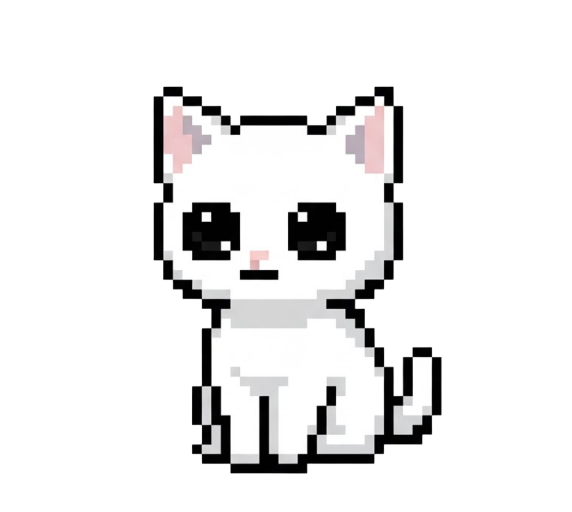
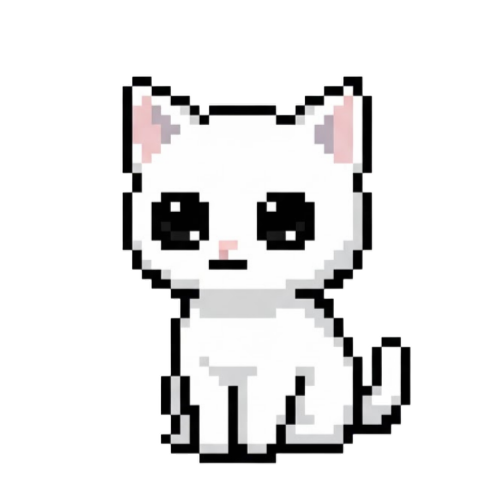
Look at her, she is so cute, new animation

Changed region(s): [[0.2449, 0.1531, 0.8571, 0.949]]

diff --git a/main.py b/main.py
@@ -100,11 +100,15 @@ class NekoWidget(QWidget):
         sleep_path = os.path.join(base_path, 'assets', 'neko_sleep.png')
         happy_path = os.path.join(base_path, 'assets', 'neko_happy.png')
         peek_path = os.path.join(base_path, 'assets', 'neko_peek.png')
+        curious_path = os.path.join(base_path, 'assets', 'neko_curious.png')
+        agitated_path = os.path.join(base_path, 'assets', 'neko_agitated.png')
         
         self.idle_pixmap = QPixmap(idle_path)
         self.sleep_pixmap = QPixmap(sleep_path)
         self.happy_pixmap = QPixmap(happy_path)
         self.peek_pixmap = QPixmap(peek_path)
+        self.curious_pixmap = QPixmap(curious_path)
+        self.agitated_pixmap = QPixmap(agitated_path)
         
         # Scale if necessary
         if not self.idle_pixmap.isNull():
@@ -115,6 +119,10 @@ class NekoWidget(QWidget):
             self.happy_pixmap = self.happy_pixmap.scaled(64, 64, Qt.KeepAspectRatio, Qt.SmoothTransformation)
         if not self.peek_pixmap.isNull():
             self.peek_pixmap = self.peek_pixmap.scaled(64, 64, Qt.KeepAspectRatio, Qt.SmoothTransformation)
+        if not self.curious_pixmap.isNull():
+            self.curious_pixmap = self.curious_pixmap.scaled(64, 64, Qt.KeepAspectRatio, Qt.SmoothTransformation)
+        if not self.agitated_pixmap.isNull():
+            self.agitated_pixmap = self.agitated_pixmap.scaled(64, 64, Qt.KeepAspectRatio, Qt.SmoothTransformation)
 
         self.set_image(self.idle_pixmap)
 
@@ -146,10 +154,10 @@ class NekoWidget(QWidget):
         self.window_tracker_timer.timeout.connect(self.check_active_window)
         self.window_tracker_timer.start(1000)
         
-        # 10 second window change reset timer
+        # Window change reset timer
         self.window_change_reset_timer = QTimer(self)
+        self.window_change_reset_timer.setSingleShot(True)
         self.window_change_reset_timer.timeout.connect(self.reset_window_change_count)
-        self.window_change_reset_timer.start(10000)
         
         # Peek back-to-sleep timer
         self.peek_timer = QTimer(self)
@@ -168,23 +176,58 @@ class NekoWidget(QWidget):
             self.wake_up()
 
     def check_active_window(self):
-        # If we aren't sleeping or peeking, active window changes don't matter to our waking logic
-        if self.state not in [NekoState.SLEEPING, NekoState.PEEKING]:
+        # We track window changes in IDLE and TALKING
+        if self.state not in [NekoState.SLEEPING, NekoState.PEEKING, NekoState.IDLE, NekoState.TALKING]:
             return
             
         current_window = win32gui.GetForegroundWindow()
         
         if current_window and self.last_active_window and current_window != self.last_active_window:
-            self.window_change_count += 1
             
-            if self.window_change_count >= 3:
-                # Wake up fully if frantic typing/switching is happening
-                self.wake_up()
-                self.say(random.choice(["woah, so much blinking", "slow down!", "what's going on?", "you're moving fast!"]))
-                self.window_change_count = 0
-            elif self.window_change_count >= 1 and self.state == NekoState.SLEEPING:
-                # Just peek if it's a minor change
-                self.start_peek()
+            # Action if IDLE or TALKING
+            if self.state in [NekoState.IDLE, NekoState.TALKING]:
+                self.window_change_count += 1
+                self.reset_sleep_timer()  # Keep it awake like an interaction
+                
+                if self.window_change_count == 2:
+                    # Speak on 2nd window switch
+                    self.set_image(self.curious_pixmap)
+                    lines = [
+                        "Are you working?", "ooh, new app", "whatcha lookin at?", 
+                        "switchy switchy", "working hard?", "so many windows!"
+                    ]
+                    self.say(random.choice(lines))
+                    # Wait 5 seconds to turn back to idle (or get dizzy if 3 more changes)
+                    self.window_change_reset_timer.start(5000)
+                    
+                elif self.window_change_count >= 5:
+                    # Agitated state! Fast switching within the 5 seconds
+                    self.set_image(self.agitated_pixmap)
+                    lines = [
+                        "wat r u doin?!", "my head's spinnin!", "slow down >_<", 
+                        "too many screens!", "stahp switchin!", "ahhhhhhh!"
+                    ]
+                    self.say(random.choice(lines))
+                    self.window_change_count = 0  # Reset after scolding
+                    self.window_change_reset_timer.stop()
+            
+            # Action if SLEEPING or PEEKING
+            else:
+                self.window_change_count += 1
+                
+                # Start timer for full wake reset
+                if self.window_change_count == 1:
+                    self.window_change_reset_timer.start(10000)
+                    
+                if self.window_change_count >= 3:
+                    # Wake up fully if frantic typing/switching is happening
+                    self.wake_up()
+                    self.say(random.choice(["woah, meow 0w0", "slow down!", "what's going on?", "you woke me -w-"]))
+                    self.window_change_count = 0
+                    self.window_change_reset_timer.stop()
+                elif self.window_change_count >= 1 and self.state == NekoState.SLEEPING:
+                    # Just peek if it's a minor change
+                    self.start_peek()
                 
         self.last_active_window = current_window
 
